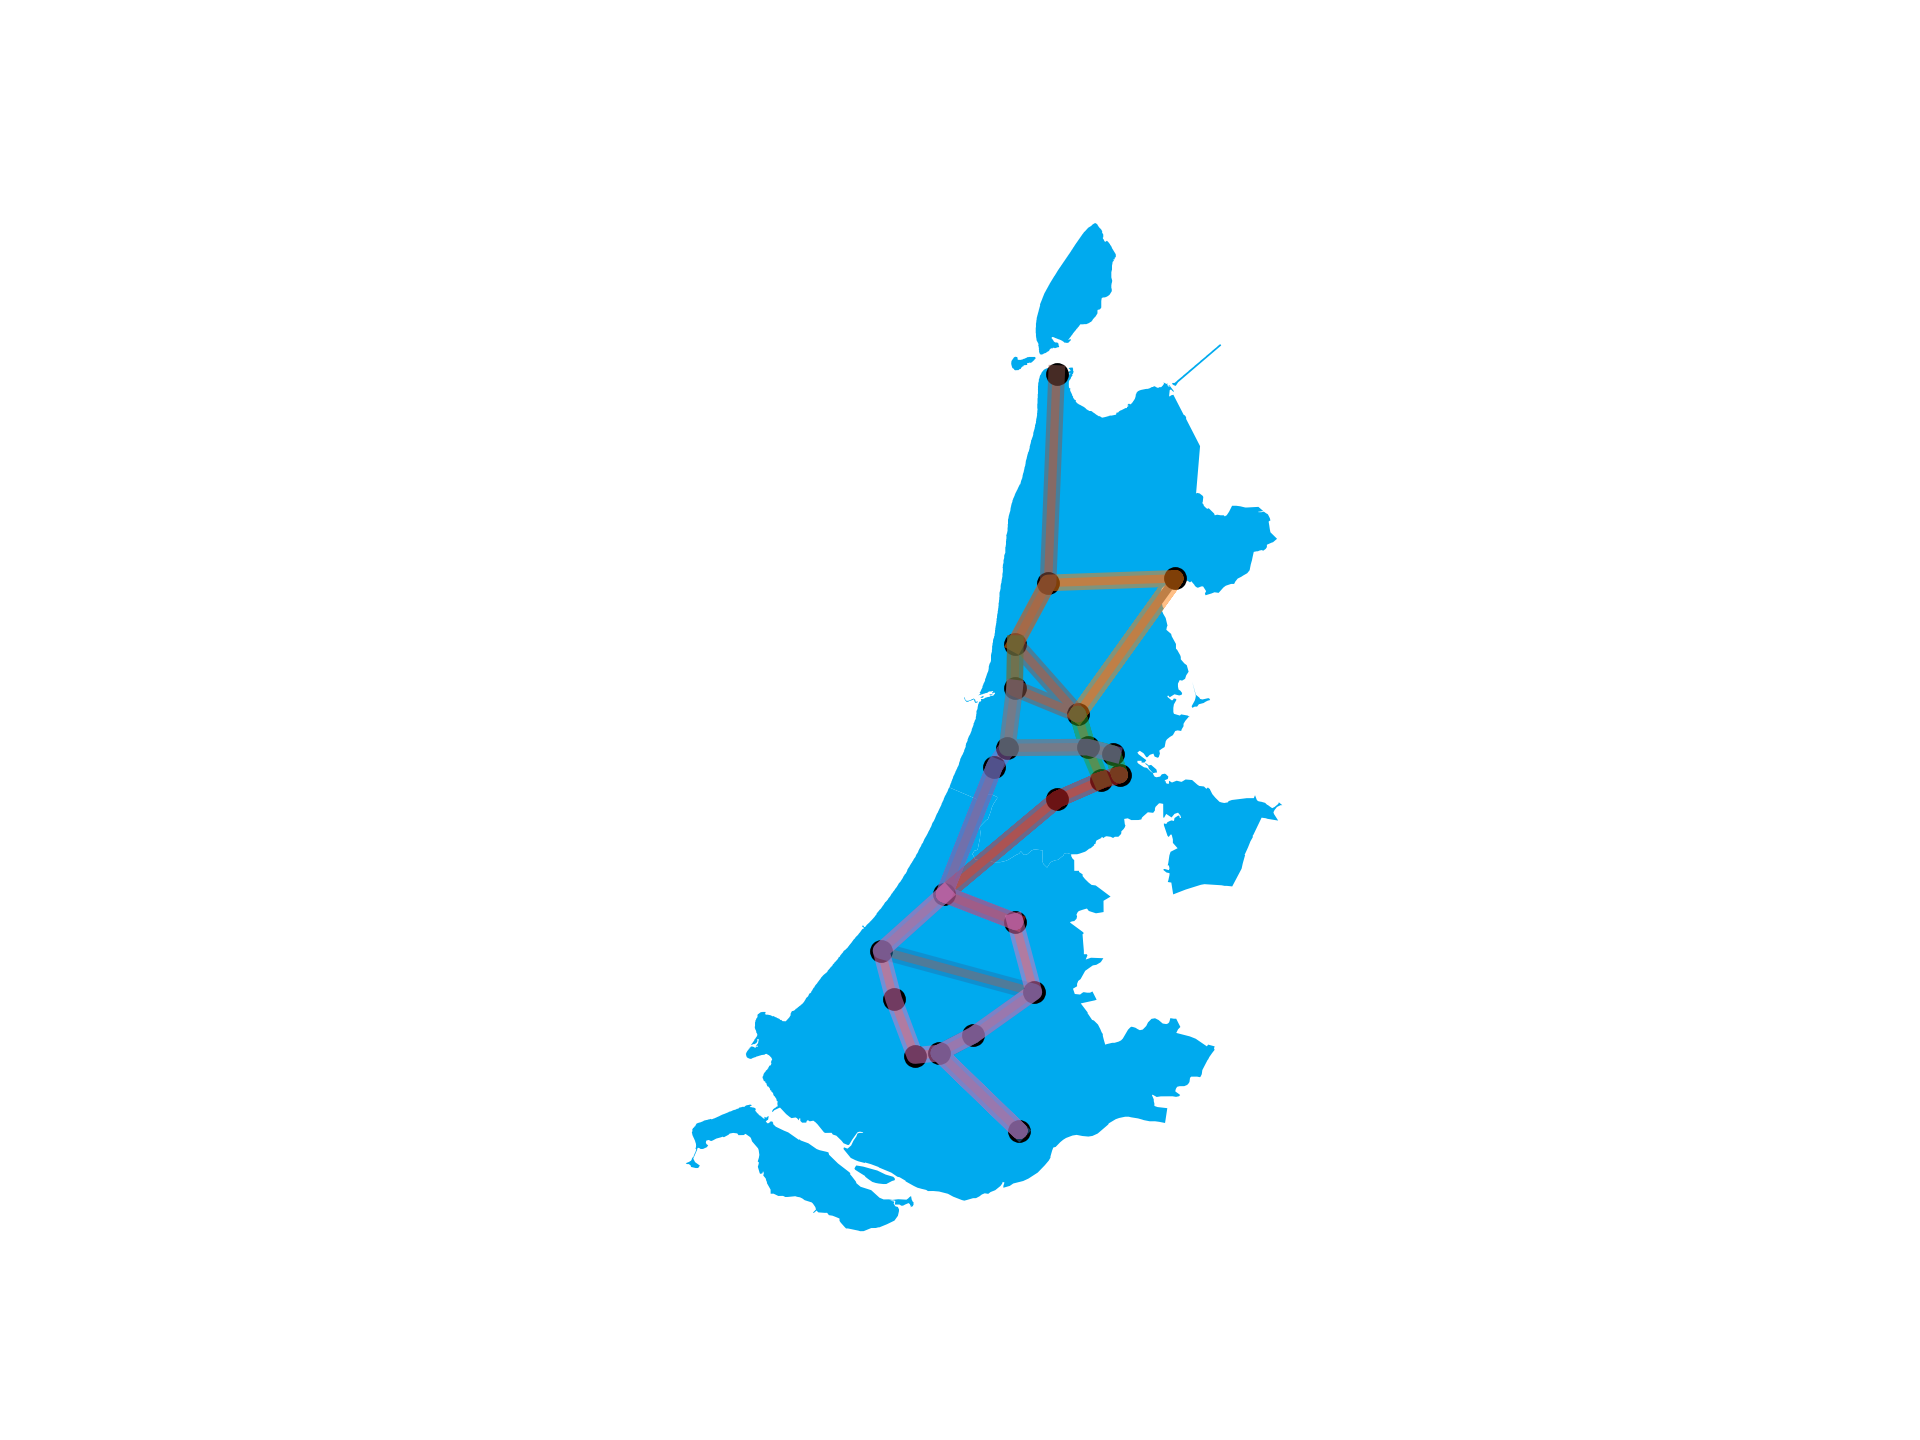
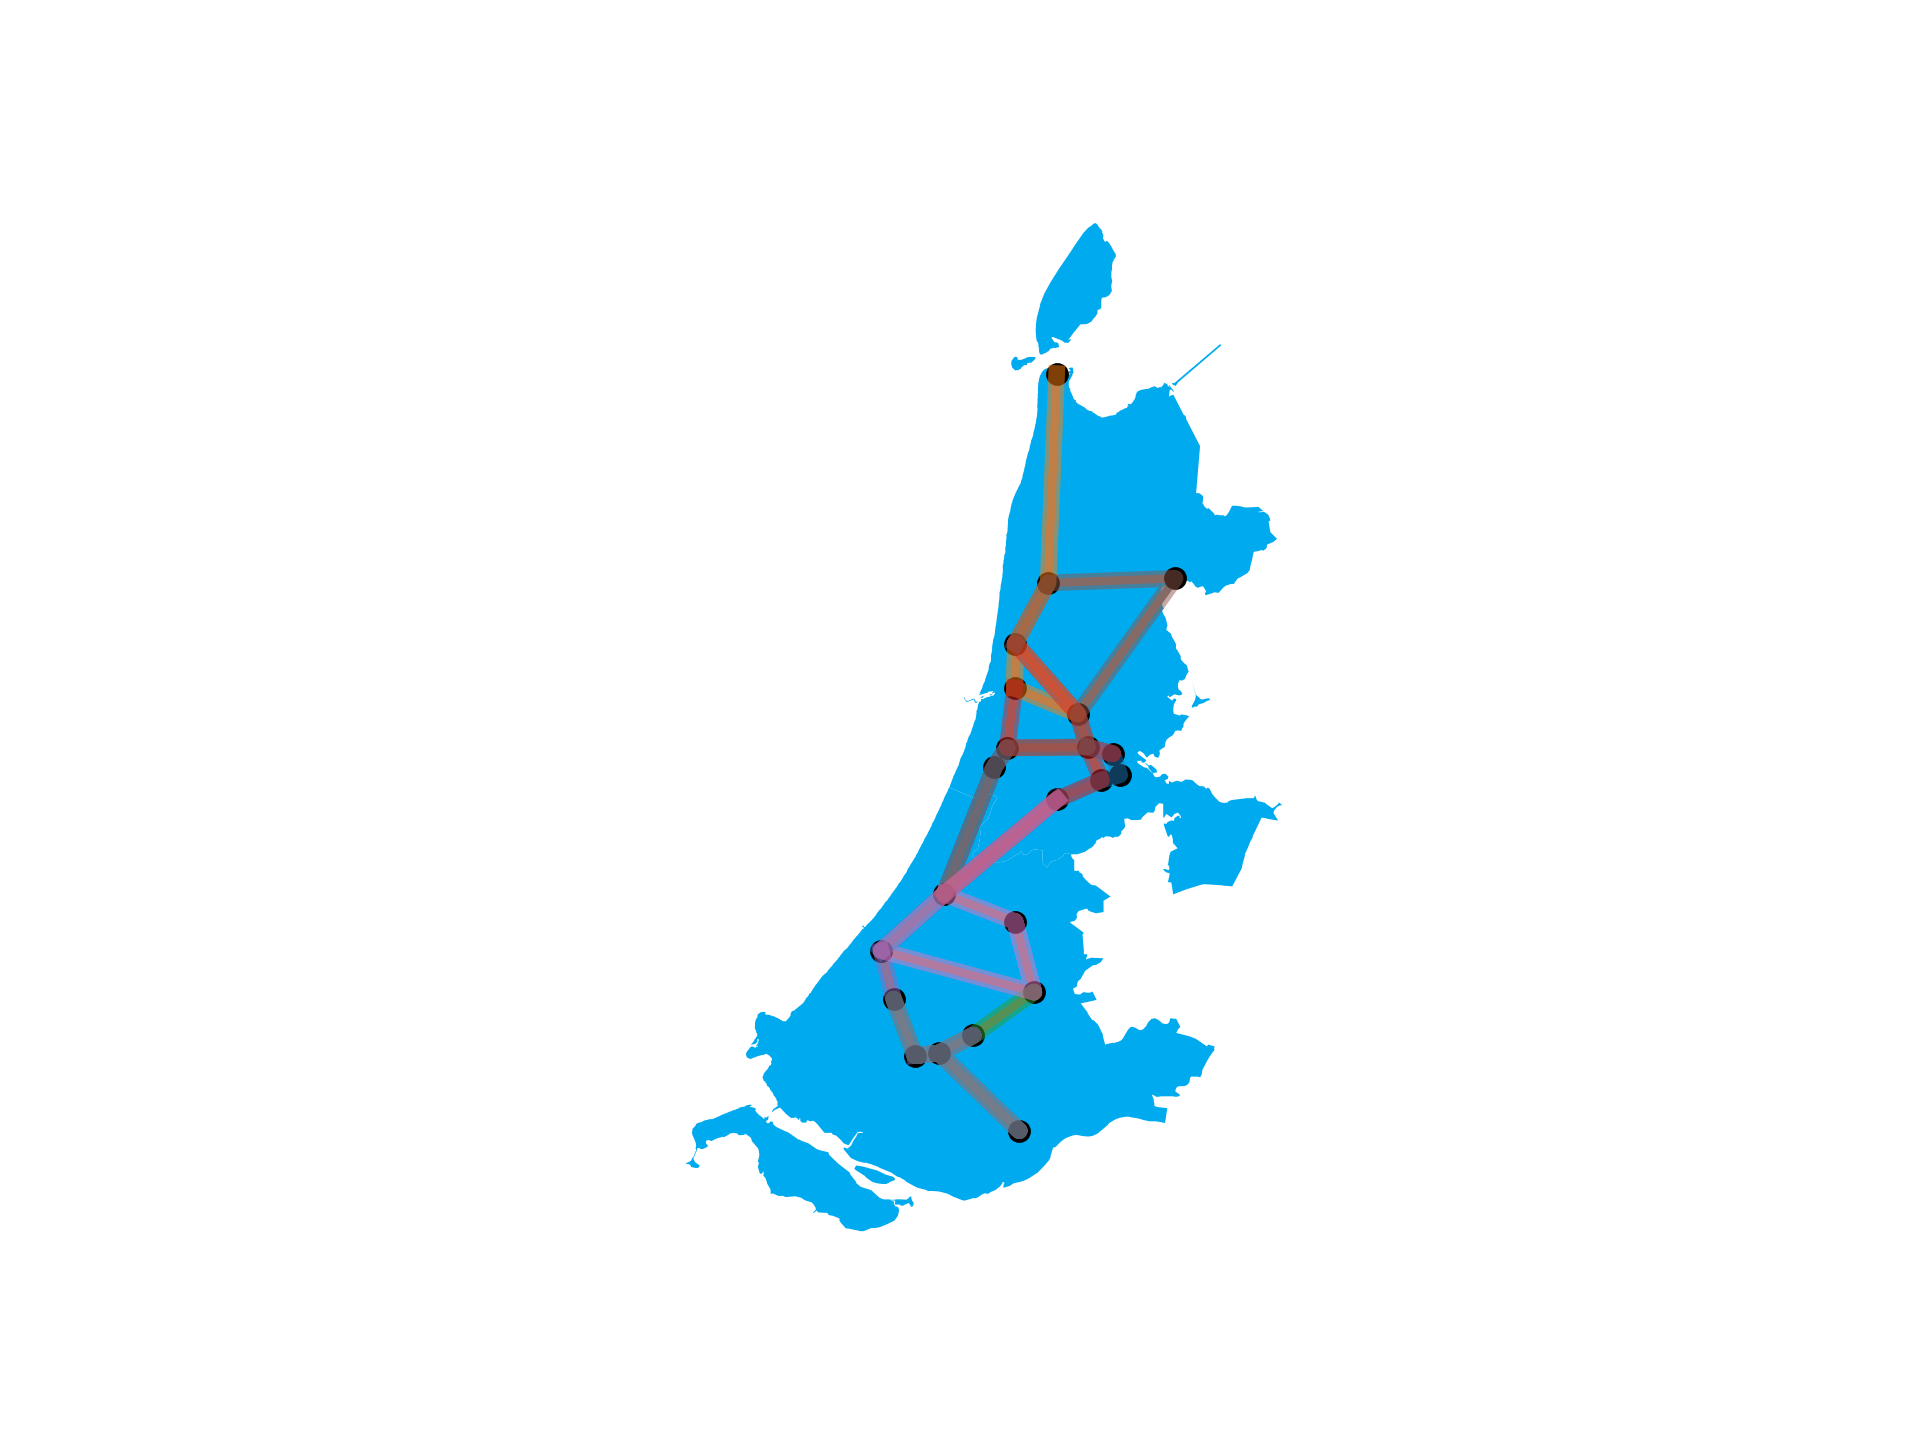
fixed the get_begin_end_options method and added the random algorithm class

Changed region(s): [[0.4375, 0.25, 0.625, 0.7812]]

diff --git a/code/classes/line_class.py b/code/classes/line_class.py
@@ -8,6 +8,7 @@ Dani van Enk, 11823526
 
 # import used classes
 import code.classes as cls
+from code.debug.connections import print_connections, check_validity
 
 
 class Line():
@@ -85,6 +86,32 @@ class Line():
 
         return self._connections
 
+    def get_begin_end_options(self):
+
+        if len(self._stations) == 0:
+            return None
+
+        # define the stations at the end of the current line
+        self._current_start = self._stations[0]
+        self._current_end = self._stations[-1]
+
+        return self._current_start.connections, self._current_end.connections
+
+    def get_all_options(self):
+
+        if len(self._stations) == 0:
+            return None
+
+        # define the stations at the end of the current line
+        self._current_start = self._stations[0]
+        self._current_end = self._stations[-1]
+
+        connections = self._current_start.connections.copy()
+        connections.update(self._current_end.connections)
+
+
+        return connections
+
     def add_connection(self, connection, max_duration):
         """
         adds a connection to the connections list if the connection is valid
@@ -118,18 +145,24 @@ class Line():
             
             # if not add it where it's posisble
             else:
-                # define the stations at the end of the current line
-                current_start = self._stations[-1]
-                current_end = self._stations[0]
+                current_start_options, current_end_options = self.get_begin_end_options()
                 
-                # check if it must be added to the start or at the end of the line
-                if connection in current_start.connections:
-                    next_station = current_start.connections[connection]
+                # for connection in current_end_options:
+                #     print(self._current_end, connection)
+
+                if connection in current_end_options:
+                    next_station = current_end_options[connection]
                     self._stations.append(next_station)
                     self._connections.append(connection)
-                elif connection in current_end.connections:
-                    previous_station = current_end.connections[connection]
+
+                elif connection in current_start_options:
+                    previous_station = current_start_options[connection]
                     self._stations.insert(0, previous_station)
-                    self._connections.append(connection)
+                    self._connections.insert(0, connection)
+                else:
+                    return False
 
         return True
+
+    def __repr__(self):
+        return f"ID {self._id}"

diff --git a/code/algorithms/random.py b/code/algorithms/random.py
@@ -1,0 +1,77 @@
+#!/usr/bin/env python3.8
+# -*- coding: utf-8 -*-
+"""
+version: python 3.8
+create_lines.py creates lines according to the given constraints
+Dani van Enk, 11823526
+"""
+
+import sys
+import os
+import random as rd
+import math
+
+from collections import defaultdict
+
+from code.data_loader.load_data import load
+from code.classes import Line
+from code.function.objective import goal_function
+from code.debug.connections import print_connections
+
+class Random_Connections():
+
+    def __init__(self, connections, max_duration, max_n_of_l):
+        self._connections = connections
+        self._max_duration = max_duration
+        self._max_n_of_l = max_n_of_l
+        self._min_n_of_l = math.ceil(sum(connection.duration for connection \
+            in connections)/max_duration)
+        self._result = []
+        self._scores = defaultdict(list)
+
+    @property
+    def result(self):
+        return self._result
+
+    @property
+    def scores(self):
+        return self._scores
+    
+    def create_line(self, uid):
+
+        line = Line(uid)
+
+        line.add_connection(rd.choice(self._connections), self._max_duration)
+
+        while (line.duration + min(line.get_all_options().keys(), \
+               key=lambda x: x.duration).duration <= self._max_duration):
+            
+            options = rd.choice(line.get_begin_end_options())
+
+            line.add_connection(rd.choice(list(options.keys())), self._max_duration)
+
+        return line
+
+    def run(self, repeat=1):
+
+        try:
+            float(repeat)
+        except ValueError:
+            exit("RunError: please make sure you've entered a number for the number of repeats")
+
+        for run in range(repeat):
+            for n_of_l in range(self._max_n_of_l, self._min_n_of_l - 1, -1):
+                lines = []
+
+                for line_index in range(n_of_l):
+                    lines.append(self.create_line(line_index))
+
+                goal_function_result = goal_function(lines, self._connections, n_of_l)
+
+                self._result.append((lines,) + goal_function(lines, self._connections, n_of_l))
+                self._score[run].append(run)
+                self._score[score].append(goal_function_result[0]) 
+
+            self._result = sorted(self._result, key=lambda x: x[1], reverse=True)[:5]
+
+        return self._result

diff --git a/main.py b/main.py
@@ -75,31 +75,9 @@ def output(lines, score):
 
 def create_lines(stations, connections, duration, n_of_l):
 
-    K = 0
-    tries = 0
-    max_tries = 1E4
-    p = 0
+    random = Random_Connections(connections, duration, n_of_l)
 
-    best_run = None
-
-    time = 0
-
-    connections = sorted(connections, key=lambda x: x.duration)
-
-    while (p != 1):
-
-        lines = create_random_line(stations, connections, duration, n_of_l)
-
-        K, p = goal_function(lines, connections, n_of_l)
-
-        tries += 1
-
-        if not best_run:
-            best_run = (lines, K, p)
-        elif K > best_run[1] and p >= best_run[2]:
-            best_run = (lines, K, p)
-
-    lines, K, p = best_run
+    lines, K, p = random.run(10000)[0]
 
     for line in lines:
         print(", ".join(str(station) for station in line.stations))
@@ -107,25 +85,8 @@ def create_lines(stations, connections, duration, n_of_l):
     print("K-score", int(K))
     print(
         f"sections traversed {p*len(connections):.0f}/{len(connections):.0f}")
-    print("tries", int(tries))
 
     return lines, K
-
-
-def goal_function(lines, connections, n_of_l):
-
-    used_connections = set()
-    Min = 0
-
-    for line in lines:
-        Min += line.duration
-        for connection in line.connections:
-            used_connections.add(connection)
-
-    p = len(used_connections)/len(connections)
-    T = n_of_l
-
-    return p * 10000 - (T * 100 + Min), p
 
 
 def calc_state_space(stations, connections, duration, n_of_l):
@@ -146,7 +107,7 @@ def calc_state_space(stations, connections, duration, n_of_l):
 if __name__ == "__main__":
 
     from code.data_loader.load_data import load
-    from code.algorithms.create_lines import create_random_line
+    from code.algorithms.random import Random_Connections
     from code.visualization.plot_lines import plot_map
 
     start = time.time_ns()

diff --git a/code/classes/station_class.py b/code/classes/station_class.py
@@ -64,6 +64,10 @@ class Station():
         return the connections of this station
         """
 
+        # for connection, stationto in self._connections.items():
+        #     if self == stationto:
+        #         print("from: ", self, "to: ", stationto)
+
         return self._connections
 
     @connections.setter
@@ -95,16 +99,16 @@ class Station():
                 self._connections[connection] = station
 
     def __repr__(self):
-        """
-        return the correct representation of the Station class
-        """
+    #     """
+    #     return the correct representation of the Station class
+    #     """
 
-        return f"{self._name} at position " \
-            f"(long: {self._longitude}, lat: {self._latitude})"
+    #     return f"{self._name} at position " \
+    #         f"(long: {self._longitude}, lat: {self._latitude})"
     
-    def __str__(self):
-        """
-        return the string format of the Station class
-        """
+    # def __str__(self):
+    #     """
+    #     return the string format of the Station class
+    #     """
 
         return self._name

diff --git a/code/debug/connections.py b/code/debug/connections.py
@@ -1,0 +1,27 @@
+#!/usr/bin/env python3.8
+# -*- coding: utf-8 -*-
+
+class bcolors:
+    HEADER = '\033[95m'
+    OKBLUE = '\033[94m'
+    OKGREEN = '\033[92m'
+    WARNING = '\033[93m'
+    FAIL = '\033[91m'
+    ENDC = '\033[0m'
+    BOLD = '\033[1m'
+    UNDERLINE = '\033[4m'
+
+def print_connections(station):
+    print(f"{bcolors.HEADER}{station}{bcolors.ENDC}")
+    for connection, station_ in station.connections.items():
+        print(f"{connection} {bcolors.HEADER}{station_}{bcolors.ENDC}")
+
+
+# for station in self.stations:
+#     print_connections(station)
+
+def check_validity(connections, station):
+    for station_ in connections.values():
+        if station == station_:
+            print_connections(station)
+            exit("ValidationError: Something went wrong")

diff --git a/code/classes/connection_class.py b/code/classes/connection_class.py
@@ -84,15 +84,15 @@ class Connection():
         return self._start, self._end
 
     def __repr__(self):
-        """
-        return the correct representation of the Connection class
-        """
+    #     """
+    #     return the correct representation of the Connection class
+    #     """
         
-        return f"Section: {self._start} - {self._end} (Duration: {self._duration})"
+    #     return f"Section: {self._start} - {self._end} (Duration: {self._duration})"
     
-    def __str__(self):
-        """
-        return the string format of the Connection class
-        """
+    # def __str__(self):
+    #     """
+    #     return the string format of the Connection class
+    #     """
 
         return f"{self._start} - {self._end}"

diff --git a/code/function/objective.py b/code/function/objective.py
@@ -1,0 +1,23 @@
+#!/usr/bin/env python3.8
+# -*- coding: utf-8 -*-
+"""
+version: python 3.8
+objective.py defines the objective function used in this program
+Dani van Enk, 11823526
+"""
+
+
+def goal_function(lines, connections, n_of_l):
+
+    used_connections = set()
+    Min = 0
+
+    for line in lines:
+        Min += line.duration
+        for connection in line.connections:
+            used_connections.add(connection)
+
+    p = len(used_connections)/len(connections)
+    T = n_of_l
+
+    return p * 10000 - (T * 100 + Min), p
